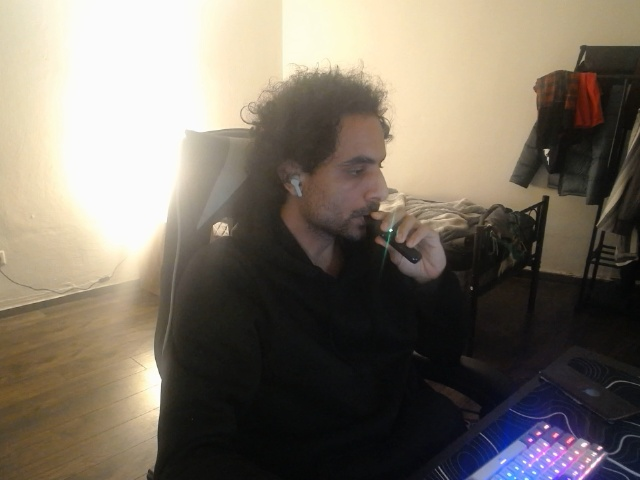
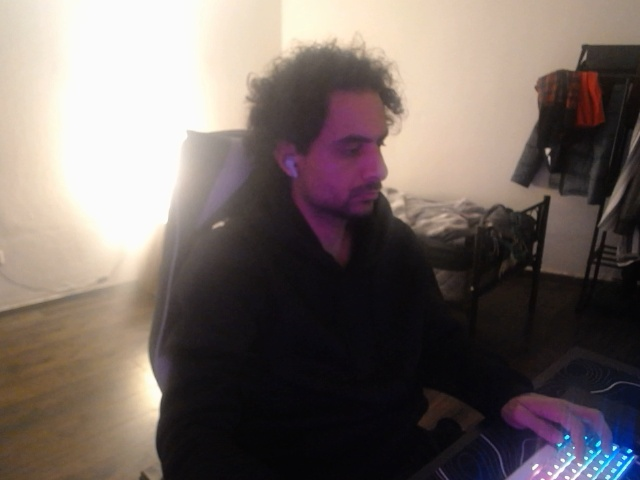
"adding full version"

diff --git a/software_simulation/Emergency.py b/software_simulation/Emergency.py
@@ -3,35 +3,31 @@
 from sensorfusion import *
 
 
-def EmergencyALgorithm(DataPayloadgroup:dict )->bool:
+def EmergencyALgorithm(payloadent:dict )->bool:
 
     ReturnFlag = False
     movementflag = False
-    for payloadent in DataPayloadgroup :
-        # Check temperature
-        if not (18 <= payloadent['dht22']['temperature_celsius'] <= 24):
-            ReturnFlag = True
-            print(f"bad temp: {payloadent['dht22']['temperature_celsius']}")
-        else:
-            print(f"good temp: {payloadent['dht22']['temperature_celsius']}")
-
-        # Check humidity
-        if not (40 <= payloadent['dht22']['humidity_percent'] <= 60):
-            ReturnFlag = True
-            print(f"bad humidity: {payloadent['dht22']['humidity_percent']}")
-        else:
-            print(f"good humidity: {payloadent['dht22']['humidity_percent']}")
-
-        # Check motion
-        if payloadent['PIR501']['value'] == 1 : 
-            movementflag = True
-            print("movement detected")
-
-        # Check pose for fall detection
-        pose = payloadent.get('pose', '')
-        if pose == "LAYING ON THE FLOOR" and not movementflag:
-            ReturnFlag = True
-            print("fall detected: laying on floor with no motion")
+    # Check temperature
+    if not (18 <= payloadent['dht22']['temperature_celsius'] <= 24):
+        ReturnFlag = True
+        print(f"bad temp: {payloadent['dht22']['temperature_celsius']}")
+    else:
+        print(f"good temp: {payloadent['dht22']['temperature_celsius']}")   
+    # Check humidity
+    if not (40 <= payloadent['dht22']['humidity_percent'] <= 60):
+        ReturnFlag = True
+        print(f"bad humidity: {payloadent['dht22']['humidity_percent']}")
+    else:
+        print(f"good humidity: {payloadent['dht22']['humidity_percent']}")  
+    # Check motion
+    if payloadent['PIR501']['value'] == 1 : 
+        movementflag = True
+        print("movement detected")  
+    # Check pose for fall detection
+    pose = payloadent.get('pose', '')
+    if pose == "LAYING ON THE FLOOR" and not movementflag:
+        ReturnFlag = True
+        print("fall detected: laying on floor with no motion")
     
     if not ReturnFlag and not movementflag: 
         ReturnFlag = True

diff --git a/software_simulation/Azure_handle.py b/software_simulation/Azure_handle.py
@@ -3,8 +3,8 @@ from azure.iot.device import IoTHubDeviceClient, Message
 from azure.data.tables import TableServiceClient
 import time, uuid,json
 
-CONNECTION_STRING = "YOUR IOT ID"
-STORAGE_CONNECTION_STRING = "YOUR DB ID"
+CONNECTION_STRING = "HostName=elderlyMonitor.azure-devices.net;DeviceId=rpi-1;SharedAccessKey=1feurZAW6K65IczAhw4/ERu9H574YcYtjGXcITZqdCU="
+STORAGE_CONNECTION_STRING = "DefaultEndpointsProtocol=https;AccountName=assistivestorage01;AccountKey=mubMA9lZOYyaHPJIWsAUZsW+6LErrm1GByblaRxEOvVhcjifwdMYiHQ8bErOVsJJw4r57HWX/WTp+ASt/ZwtWA==;EndpointSuffix=core.windows.net"
 TABLE_NAME = "telemetry"
 
 class AzureAdmin:

diff --git a/software_simulation/main.py b/software_simulation/main.py
@@ -84,4 +84,4 @@ if __name__ == '__main__':
 
         # Save logs
         save_logs(parsed_payload)
-  
+        time.sleep(600)
